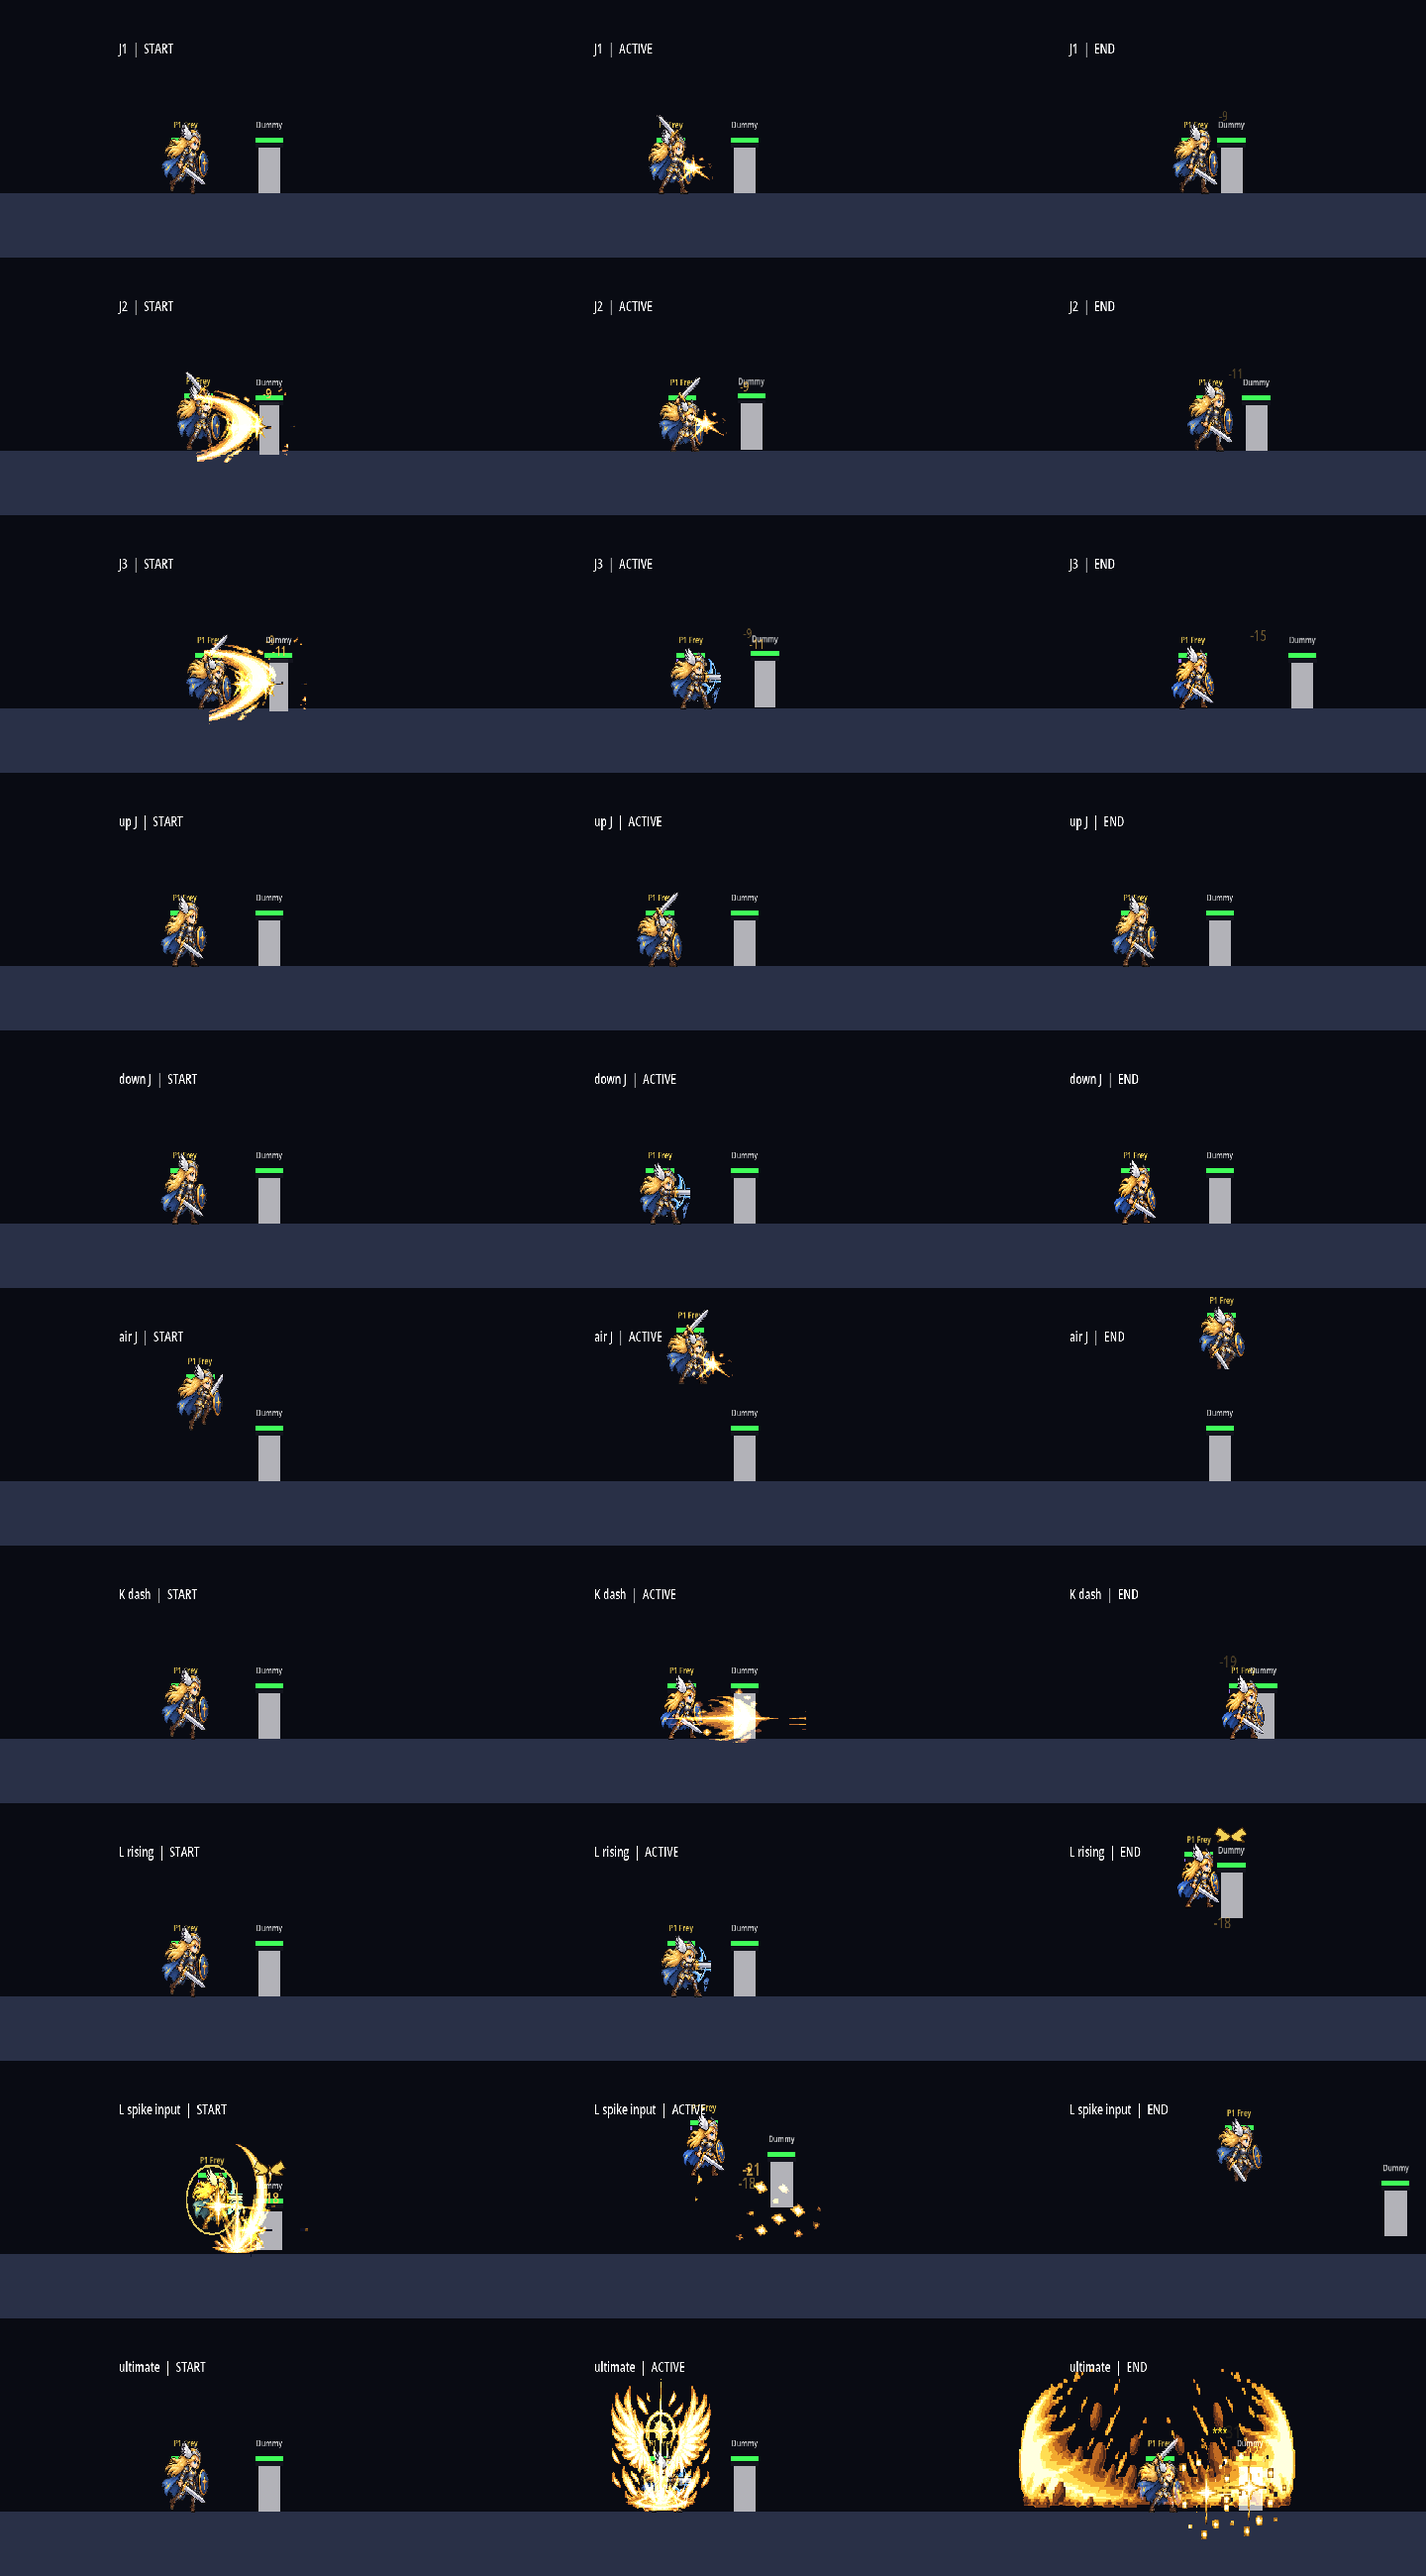
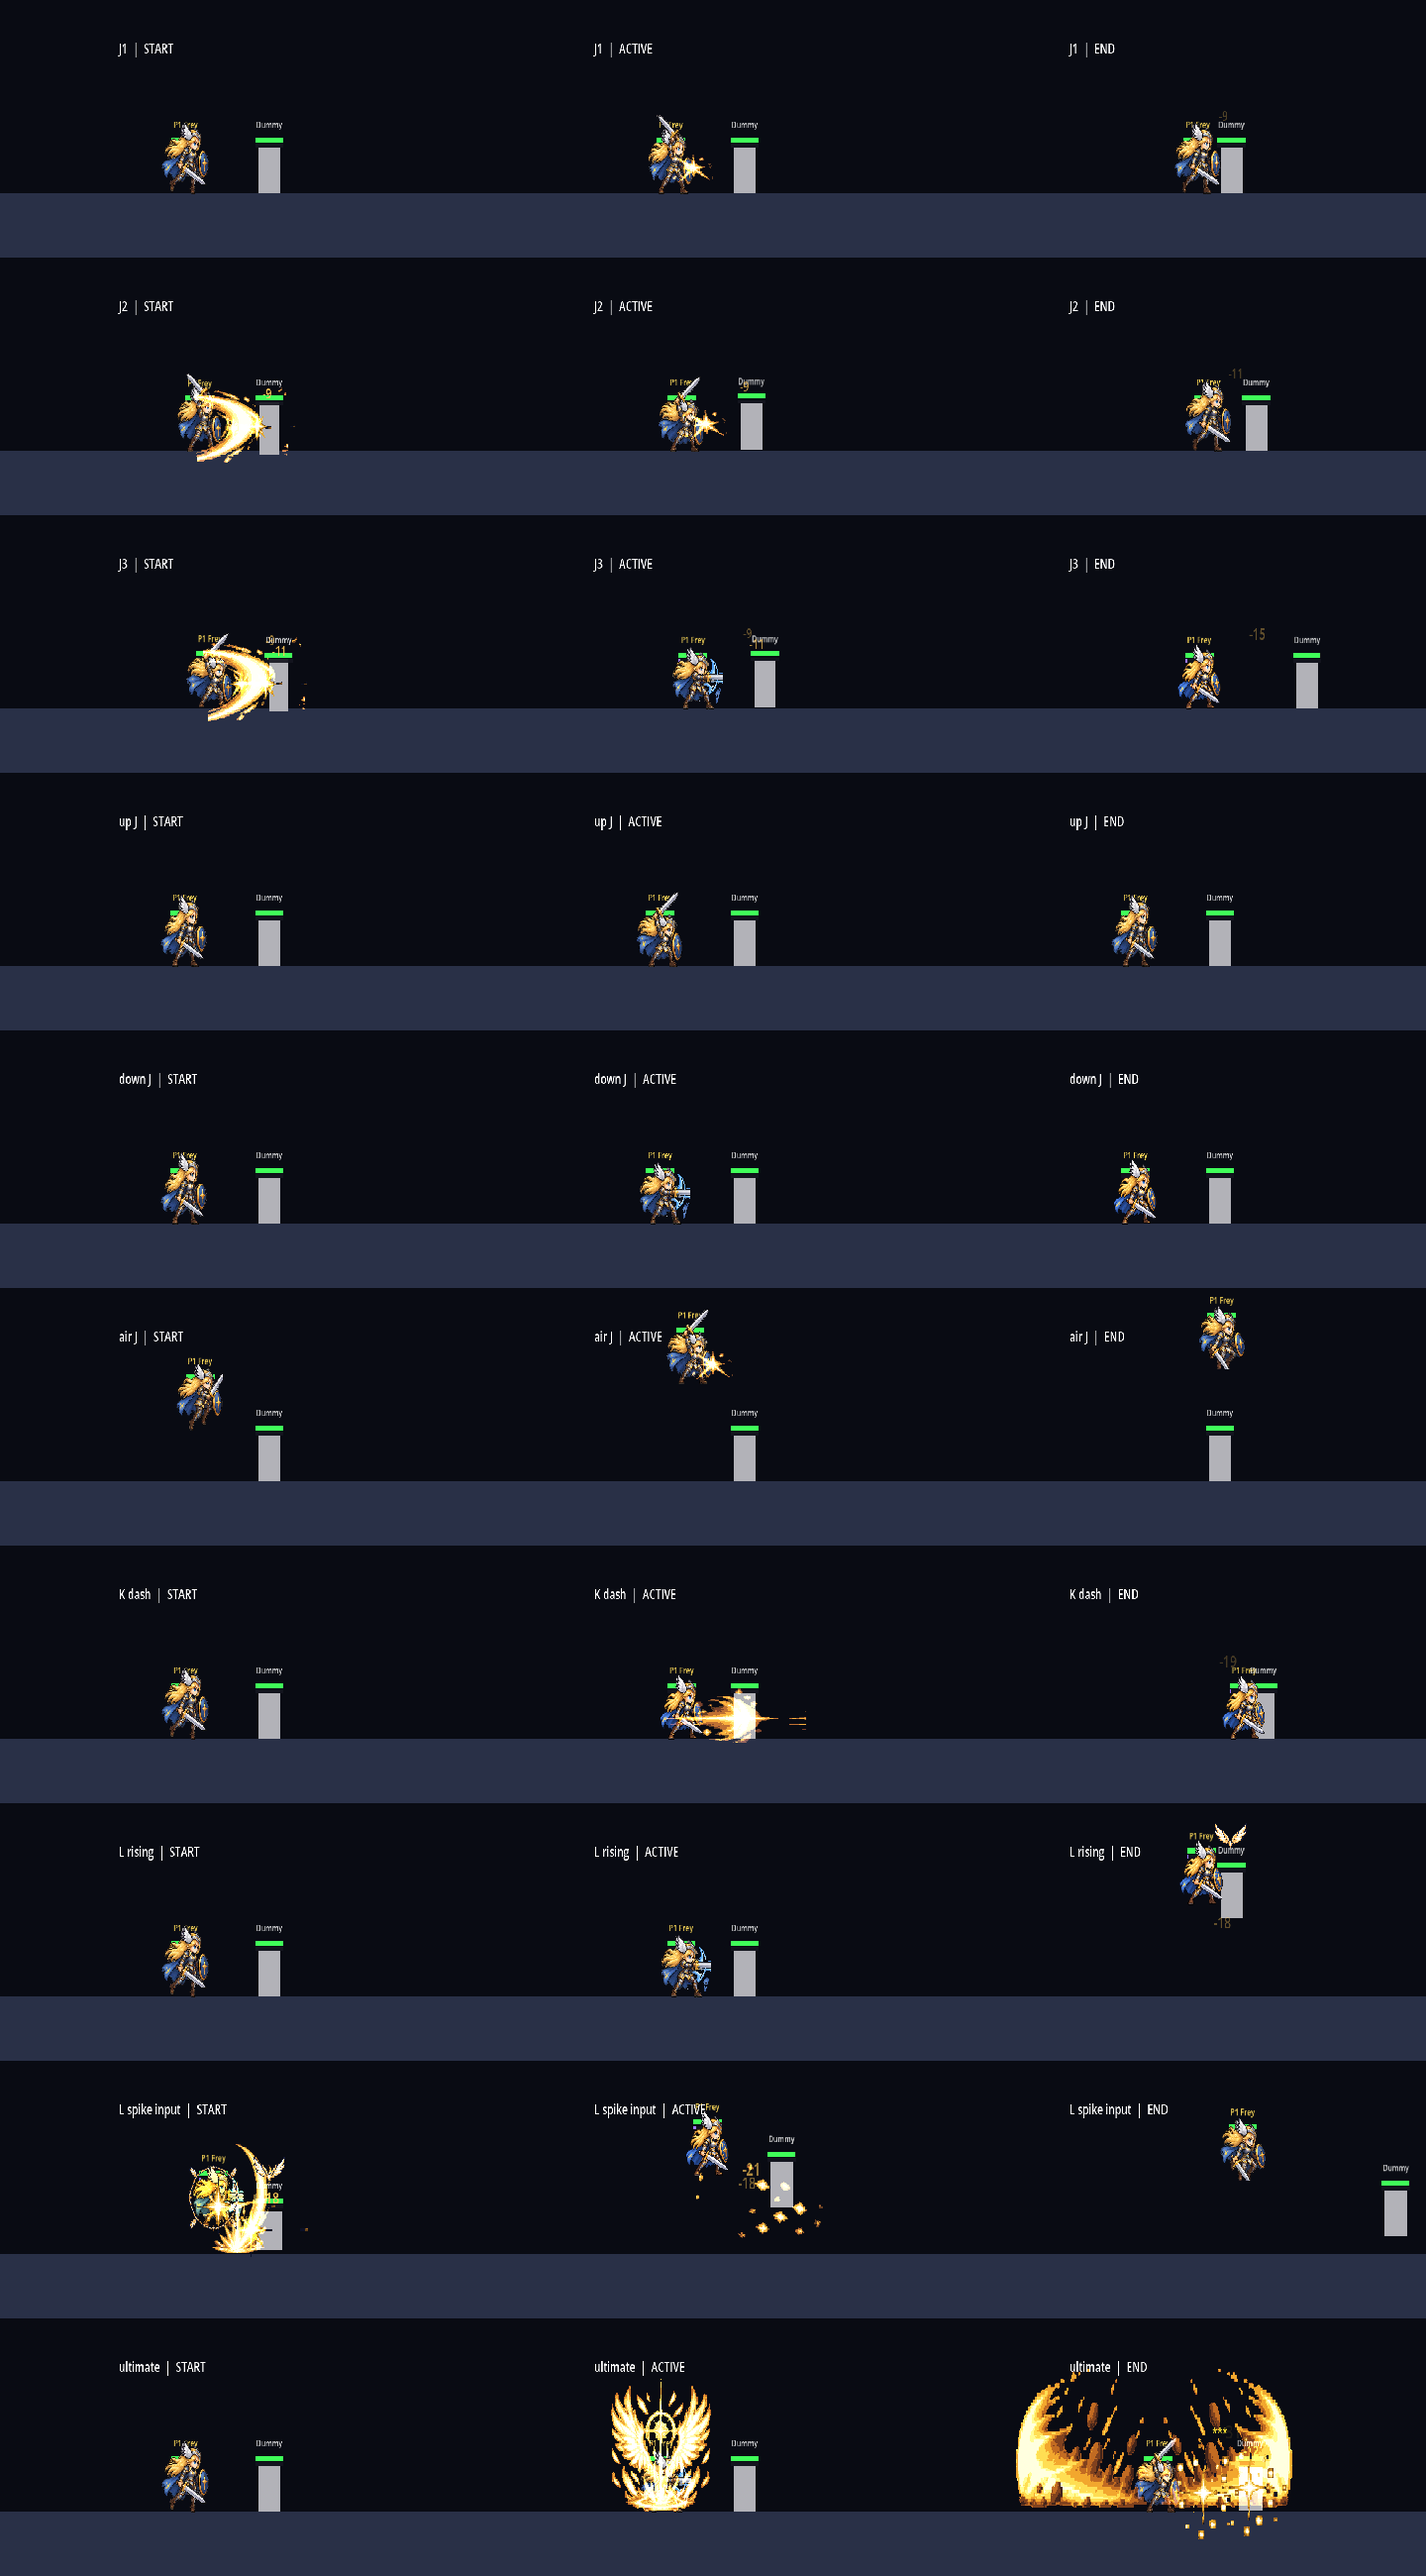
Passive-mark art in game: import files, docs, new contact sheets
The three CODEX-ART-22 marks (merged in e194549) are imported and drawn
by the hooks from 725e28b: Frey's pursuit wings over the marked target,
the spike ring around Frey, Luna's charge stars (checked as Sprite2D in
game). Frey.md and Luna.md name the files; AGENTS lists ART-22. The
round-2 contact sheets were captured again with the art, with a Luna
"star charge" row.

diff --git a/AGENTS.md b/AGENTS.md
@@ -88,6 +88,7 @@ A run fails if Godot prints `SCRIPT ERROR`, `ERROR` or `Parse Error`, even with 
 | builder | `design/tasks/CODEX-ART-18.md` | `assets/art/skill_icons/`, `tests/art_preview/skill_icons_18/`, `reports/codex-art-18/` | done — merged `a39807f`; skill bar `28693e8` |
 | builder | `design/tasks/CODEX-ART-21.md` | `assets/art/frey/`, `assets/art/luna/` (sheets, READMEs), `tests/art_preview/sprite_review_21/`, `reports/codex-art-21/` | done — merged `4aa39e3` (69 frames checked at 4x, 3 redrawn, feet and alpha cleaned; the lead kept a curated report, Luna README design notes restored `9f782f9`) |
 | analyst | `design/tasks/CODEX-QA-17.md` | `tests/analysis/codex_qa_17/`, `reports/codex-qa-17/` | round 1 merged `12c0b2f` (scorecards Frey 20/35, Luna 22/35, combo probes); round 2 stopped by the Codex usage limit at 04:17 — the lead re-ran the same probes, `reports/codex-qa-17/round-2/` (not independent); round 2b (independent check, quota restored by the user) running |
+| builder | `design/tasks/CODEX-ART-22.md` | `assets/art/effects/passive/`, `tests/art_preview/passive_marks_22/`, `reports/codex-art-22/` | done — merged `e194549` (Frey pursuit mark, spike ring, Luna charge star; wired `725e28b`) |
 | builder | `design/tasks/CODEX-ART-20.md` | `assets/art/effects/` (4 strips), `tests/art_preview/flash_art_20/`, `reports/codex-art-20/` | done — merged `d5e4635`; wired in `f35dbc6` |
 | builder | `design/tasks/CODEX-ART-19.md` | `reports/codex-art-19/`, `reports/bot-behavior/bot-behavior-tree.png` | done — merged `f0d830c`; labels fixed and re-rendered `78cd3e5` (re-render: `node reports/codex-art-19/render.js`) |
 | analyst | `design/tasks/CODEX-QA-13.md` | `tests/analysis/codex_qa_13/`, `reports/codex-qa-13/` | done — merged `f102677`; findings fixed (see run log 2026-10-08 work) |

diff --git a/smash-nine-prototype/characters/luna/Luna.md b/smash-nine-prototype/characters/luna/Luna.md
@@ -91,6 +91,7 @@
 - 5개가 모이면 궁극기 남은 쿨다운이 6초 줄고 별은 사라진다. 궁극기가 준비된 동안에는 5개가 기다렸다가 다음 쿨다운이 시작되면 쓰인다.
 - 의도: 평상시(거리를 두고 정확히 맞히기)를 잘할수록 브레이브 루나가 빨리 온다 — 두 형태를 하나의 흐름으로 잇는 마법소녀다운 특징. 변신 중 공격은 별을 주지 않는다.
 - 상대의 대응: 별꽃 사이로 파고들거나 궤적 끝에서 벗어나 정확타를 주지 않기.
+- 그림: 둘레를 도는 별 `assets/art/effects/passive/luna_star_charge.png`(보라 외곽 금별, Codex ART-22). 파일이 없으면 코드로 그린 별.
 
 ## 2026-10-10 개선
 

diff --git a/smash-nine-prototype/characters/frey/Frey.md b/smash-nine-prototype/characters/frey/Frey.md
@@ -58,6 +58,7 @@
 - 다음 공격을 시작하거나, 착지하거나, 맞으면 끝난다.
 - 의도: 문서의 핵심 목표인 "띄우기와 추격으로 공격권을 이어간다"와 날개 외형을 이동 감각으로 잇는다. 이미 강한 캐릭터라 힘은 더하지 않는다(밸런스 보류).
 - 상대의 대응: 반대 방향으로 공중 이동, 가드·패링, 발판 아래로 빠지기.
+- 그림: 표식 `assets/art/effects/passive/frey_pursuit_mark.png`(흰금 날개 V), 강스파이크 재입력 고리 `frey_spike_ring.png`(Codex ART-22). 파일이 없으면 코드로 그린 도형.
 
 ## 2026-10-10 개선
 
